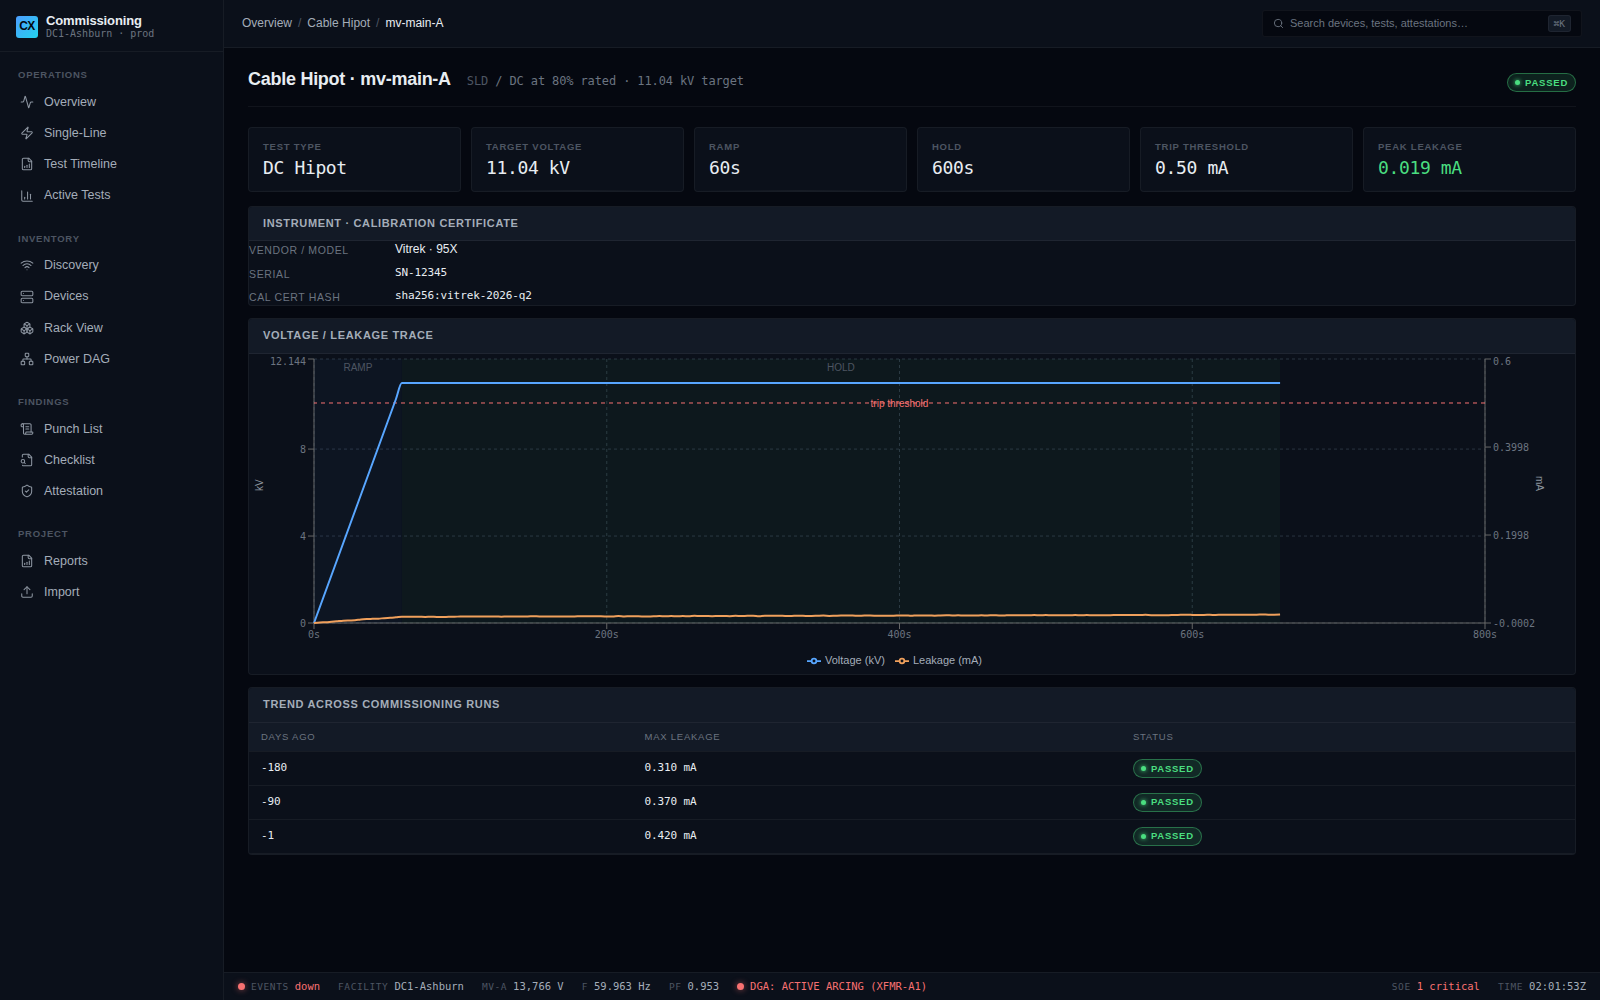
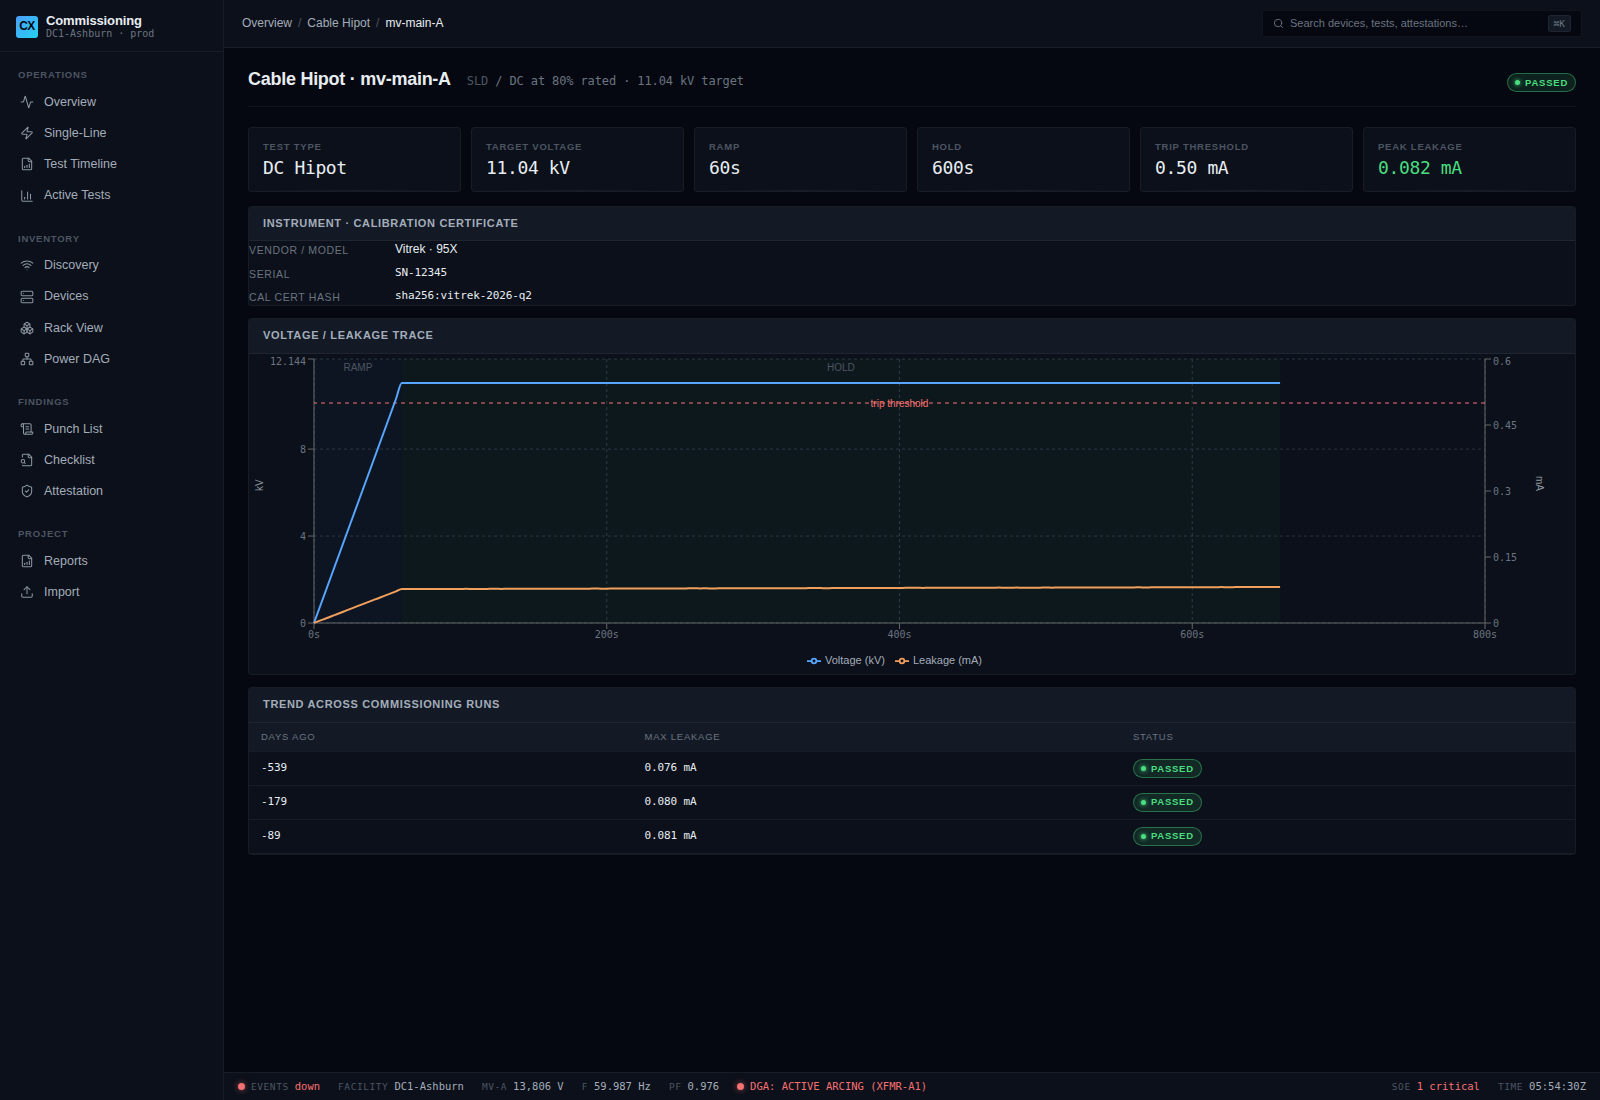
Wire hipot panel through real EvidenceStore + ageing-based cable model
Previously the equipment endpoint returned hand-authored fixtures from
simulator/equipment_records.py whose current-run leakage and historical
trend were independent constants — they did not describe the same cable
(0.019 mA current vs 0.42 mA history implied IR of 580 MΩ vs 26 MΩ for
the same conductor). Fix the structural seam:

- src/evidence_store.py: typed Protocol + InMemoryEvidenceStore; the
  test engine writes panel-shaped records here on completion, the API
  reads from here.
- src/equipment_models/cable.py: CableSpec + insulation_megohm_at() +
  hipot_run_record(spec, run_date). One ageing model produces every
  run a cable has ever had — current peak and historical peaks are on
  the same degradation curve by construction.
- src/equipment_views.py: build_panel(kind, device_id, store) returns
  the latest run with history derived from prior runs in the store, or
  {"no_prior_run": True} when nothing has been recorded.
- dev_server.py: seed historical hipot runs (-540d, -180d, -90d, -1d)
  through the EvidenceStore for every breaker that has an associated
  feeder cable, using a single CableSpec per cable.
- HipotConsole.jsx: render a "no run on file" state when the API
  reports no_prior_run instead of crashing on missing trace data.

Other equipment kinds (xfmr/gen/ups/ats) remain on legacy fixtures and
will be migrated to the same path in subsequent commits.

diff --git a/frontend/src/pages/HipotConsole.jsx b/frontend/src/pages/HipotConsole.jsx
@@ -19,6 +19,26 @@ export default function HipotConsole() {
   }, [id]);
 
   if (!rec) return <p style={{ color: "var(--text-faint)" }}>Loading…</p>;
+  if (rec.no_prior_run) {
+    return (
+      <>
+        <div className="page-header">
+          <h1>Cable Hipot · {id}</h1>
+          <span className="crumb">
+            <Link to="/sld" style={{ color: "var(--text-faint)" }}>SLD</Link>
+            {" / "}no prior run on file
+          </span>
+        </div>
+        <div className="card padded">
+          <p style={{ color: "var(--text-secondary)" }}>
+            No DC hipot test has been recorded for <code>{id}</code>.
+            Schedule a run from the Active Tests page or via the
+            commissioning checklist.
+          </p>
+        </div>
+      </>
+    );
+  }
   const trace = rec.trace.filter((_, i) => i % 4 === 0); // decimate
   const peak = Math.max(...rec.trace.map(p => p.leakage_ma));
 

diff --git a/dev_server.py b/dev_server.py
@@ -11,6 +11,7 @@ import asyncio
 import math
 import random
 import time
+from datetime import datetime, timedelta
 from pathlib import Path
 
 import uvicorn
@@ -18,6 +19,9 @@ from fastapi.staticfiles import StaticFiles
 
 from src.api.server import Deps, create_app, fanout_loop
 from src.attestation import AttestationEngine
+from src.equipment_models.cable import CableSpec, hipot_run_record
+from src.equipment_views import build_panel as build_equipment_panel
+from src.evidence_store import InMemoryEvidenceStore
 from src.orchestrator import Orchestrator, build_power_graph_from_connections
 from src.test_engine import TestEngine
 from src.types import AttestationRecord, DeviceInfo, Event, PollResult, PunchListItem, TestRequest
@@ -33,7 +37,6 @@ from simulator.sim import (
 from simulator.telemetry import live_telemetry, push_soe, telemetry_to_dict
 from simulator.equipment_records import (
     ats_record,
-    cable_hipot_record,
     generator_record,
     transformer_record,
     ups_record,
@@ -428,13 +431,63 @@ def _build_bridge(simulator):
 # ---------------------------------------------------------------------------
 
 
-def _equipment_provider():
+def _seed_hipot_runs(store, devices):
+    """Generate a chronological series of hipot runs for every breaker
+    that has an associated MV/LV cable, all derived from a single
+    CableSpec per cable + a deterministic ageing model. Both current
+    peak and historical peaks therefore lie on one degradation curve.
+
+    In production these records arrive via test_engine.execute() writing
+    its TestResult evidence to the store. The shape and the API path are
+    identical."""
+    breaker_slugs = {
+        "schneider-gma-1200a",   # MV 1200A
+        "schneider-mtz-1200a",   # LV incomer 1200A (some sites)
+        "schneider-mtz-4000a",   # LV incomer 4000A
+    }
+    # Per-cable spec. In production these values come from the cable
+    # schedule (length, jacket, install date). The (initial_megohm,
+    # aging_per_year) pair is sized so leakage at rated test voltage
+    # lands in the 0.05–0.15 mA band — visible on the chart, well below
+    # the IEEE 400.2 0.5 mA trip threshold.
+    cables_by_install_year = {
+        "mv-main-A":  (13.8, 2017, 220.0, 0.045),
+        "mv-main-B":  (13.8, 2017, 220.0, 0.045),
+        "mv-tie":     (13.8, 2017, 220.0, 0.045),
+        "mtz-inc-A1": (0.48, 2021, 380.0, 0.030),
+        "mtz-inc-A2": (0.48, 2021, 380.0, 0.030),
+        "mtz-inc-B1": (0.48, 2021, 380.0, 0.030),
+        "mtz-inc-B2": (0.48, 2021, 380.0, 0.030),
+    }
+    today = datetime(2026, 5, 1)
+    for d in devices:
+        if d.device_type_slug not in breaker_slugs:
+            continue
+        cable_id = d.device_id
+        if cable_id not in cables_by_install_year:
+            continue
+        rated_kv, install_year, initial_megohm, age = cables_by_install_year[cable_id]
+        spec = CableSpec(
+            cable_id=cable_id,
+            rated_kv=rated_kv,
+            install_year=install_year,
+            initial_megohm=initial_megohm,
+            aging_per_year=age,
+        )
+        # Three historical runs (acceptance, 6-month, 3-month) plus today.
+        for days_ago in (540, 180, 90, 1):
+            run_date = today - timedelta(days=days_ago)
+            record = hipot_run_record(spec, run_date)
+            store.put(cable_id, "cable_hipot", record)
+
+
+def _equipment_provider(evidence_store):
     """Returns a function (kind, device_id) -> dict.
 
-    `kind` is one of: xfmr, gen, ups, cable, ats. The function dispatches to
-    the right equipment_records helper. The XFMR-A1 record always reflects
-    the current C2H2 = 3.4 ppm so the Duval triangle/dashboard renders
-    the active-arcing fault zone."""
+    Hipot reads from the EvidenceStore (the platform-correct path: the
+    test engine writes records there, the API reads them back). Other
+    equipment kinds still fall through to legacy demo fixtures and will
+    be migrated to the same path in subsequent commits."""
     def provider(kind: str, device_id: str) -> dict:
         if kind in ("xfmr", "transformer"):
             c2h2_now = 3.4 if device_id == "xfmr-A1" else 0.8
@@ -444,7 +497,7 @@ def _equipment_provider():
         if kind == "ups":
             return ups_record(device_id)
         if kind in ("cable", "hipot"):
-            return cable_hipot_record(device_id)
+            return build_equipment_panel(kind, device_id, evidence_store)
         if kind == "ats":
             return ats_record(device_id)
         raise KeyError(f"unknown equipment kind: {kind}")
@@ -472,6 +525,12 @@ async def main():
     config = DemoConfig()
     devices, runs = build_facility()
     graph = power_graph(devices)
+
+    # Evidence store: every commissioning panel reads from here. The
+    # seed below populates it with deterministic cable-hipot runs the
+    # real platform would have written via test_engine.execute().
+    evidence_store = InMemoryEvidenceStore()
+    _seed_hipot_runs(evidence_store, devices)
 
     attest = AttestationEngine(
         facility_name=config.facility_name,
@@ -567,7 +626,7 @@ async def main():
             }
         },
         telemetry_provider=lambda: telemetry_to_dict(live_telemetry(devices, runs)),
-        equipment_provider=_equipment_provider(),
+        equipment_provider=_equipment_provider(evidence_store),
     )
     app = create_app(deps)
 

diff --git a/src/equipment_models/cable.py b/src/equipment_models/cable.py
@@ -1,0 +1,98 @@
+"""DC hipot test record produced from a single cable spec + age.
+
+One cable, one ageing model. Every run a cable produces — current and
+historical — comes from this function. The current peak leakage and the
+historical peaks are then guaranteed to be on the same curve, because
+they're evaluated at different points on it.
+
+References:
+    IEEE 400-2012 — Guide for Field Testing and Evaluation of the
+    Insulation of Shielded Power Cable Systems Rated 5 kV and Above.
+    IEEE 400.2-2013 — DC Withstand testing methodology, trip thresholds.
+"""
+
+from __future__ import annotations
+
+import random
+from dataclasses import dataclass
+from datetime import datetime
+
+
+@dataclass
+class CableSpec:
+    """Per-cable configuration. In production this comes from the cable
+    schedule (BIM/IFC import or NetBox cable model). In demo it is
+    constructed in dev_server.py per cable_id."""
+    cable_id: str
+    rated_kv: float                  # nameplate phase-to-phase voltage
+    test_factor: float = 0.8         # IEEE 400.2 — DC at 80% of rated AC
+    initial_megohm: float = 35_000.0 # healthy IR for a new MV XLPE cable
+    aging_per_year: float = 0.045    # fractional IR loss per year
+    install_year: int = 2020
+    instrument_vendor: str = "Vitrek"
+    instrument_model: str = "95X"
+    instrument_serial: str = "SN-12345"
+    instrument_cal_cert: str = "sha256:vitrek-2026-q2"
+    leakage_trip_ma: float = 0.5     # IEEE 400.2 trip — instrument-set
+
+
+def insulation_megohm_at(spec: CableSpec, run_date: datetime) -> float:
+    """Deterministic IR estimate at `run_date`. Single source of truth."""
+    years = (run_date - datetime(spec.install_year, 1, 1)).days / 365.25
+    years = max(0.0, years)
+    return spec.initial_megohm * (1.0 - spec.aging_per_year) ** years
+
+
+def hipot_run_record(spec: CableSpec, run_date: datetime) -> dict:
+    """Build a hipot test record for `spec` evaluated at `run_date`.
+
+    Same-cable runs at different dates evaluate the same model at
+    different ages; their leakage values therefore lie on a continuous
+    degradation curve by construction."""
+    target_kv = spec.rated_kv * spec.test_factor
+    R_megohm = insulation_megohm_at(spec, run_date)
+    rng = random.Random(int(run_date.timestamp()) ^ hash(spec.cable_id))
+
+    ramp_s, hold_s = 60, 600
+    trace = []
+    for t in range(ramp_s + hold_s + 1):
+        v = target_kv * (t / ramp_s) if t < ramp_s else target_kv
+        # Ohm's-law leakage with µA-scale instrument noise.
+        leak = (v / R_megohm) + rng.uniform(-0.0002, 0.0002)
+        # Small thermal-creep increase during the hold (real cables show
+        # this as the dielectric warms up under sustained DC stress).
+        if t > ramp_s:
+            base_at_v = target_kv / R_megohm
+            leak += (t - ramp_s) / hold_s * base_at_v * 0.06
+        trace.append({
+            "t_seconds": t,
+            "voltage_kv": round(v, 3),
+            "leakage_ma": round(leak, 5),
+            "phase": "DC+",
+        })
+
+    peak_leak = max(p["leakage_ma"] for p in trace)
+    passed = peak_leak < spec.leakage_trip_ma
+
+    return {
+        "device_id": spec.cable_id,
+        "test_type": "DC Hipot",
+        "rated_kv": spec.rated_kv,
+        "target_kv": round(target_kv, 3),
+        "test_factor": spec.test_factor,
+        "ramp_seconds": ramp_s,
+        "hold_seconds": hold_s,
+        "leakage_trip_threshold_ma": spec.leakage_trip_ma,
+        "instrument": {
+            "vendor": spec.instrument_vendor,
+            "model": spec.instrument_model,
+            "serial": spec.instrument_serial,
+            "cal_cert": spec.instrument_cal_cert,
+        },
+        "trace": trace,
+        "peak_leakage_ma": round(peak_leak, 5),
+        "insulation_megohm": round(R_megohm, 1),
+        "passed": passed,
+        "fail_reason": None if passed else "leakage_exceeds_trip",
+        "completed_at": run_date.isoformat(),
+    }

diff --git a/src/evidence_store.py b/src/evidence_store.py
@@ -1,0 +1,53 @@
+"""Evidence store: per-test panel records produced by the test engine.
+
+The platform's flow is:
+    test_engine.execute(...)
+        -> emits poll stream (Influx) + attestation records (MinIO chain)
+        -> on completion, writes one panel-shaped EvidenceRecord here
+    api/equipment/{kind}/{device_id}
+        -> evidence_store.get_latest(device_id, test_name)
+        -> returns the panel dict the engine wrote, or {"no_prior_run": True}
+
+This module deliberately does NOT generate any commissioning data — it
+only stores and retrieves what the engine produced. Demo data ships as
+historical runs seeded via .put() so the API path is identical between
+demo and production.
+"""
+
+from __future__ import annotations
+
+from typing import Optional, Protocol
+
+
+class EvidenceStore(Protocol):
+    def put(self, device_id: str, test_name: str, record: dict) -> None: ...
+    def get_latest(self, device_id: str, test_name: str) -> Optional[dict]: ...
+    def list_for_device(self, device_id: str) -> list[dict]: ...
+    def list_runs(self, device_id: str, test_name: str) -> list[dict]: ...
+
+
+class InMemoryEvidenceStore:
+    """Dev/test implementation. Production swaps in a MinIO-backed store
+    that puts each record at evidence/<device_id>/<test_name>/<run_id>.json."""
+
+    def __init__(self):
+        self._records: dict[tuple[str, str], list[dict]] = {}
+
+    def put(self, device_id: str, test_name: str, record: dict) -> None:
+        key = (device_id, test_name)
+        # Records are kept in chronological order (oldest first).
+        self._records.setdefault(key, []).append(dict(record))
+
+    def get_latest(self, device_id: str, test_name: str) -> Optional[dict]:
+        runs = self._records.get((device_id, test_name), [])
+        return runs[-1] if runs else None
+
+    def list_runs(self, device_id: str, test_name: str) -> list[dict]:
+        return list(self._records.get((device_id, test_name), []))
+
+    def list_for_device(self, device_id: str) -> list[dict]:
+        out: list[dict] = []
+        for (did, _), runs in self._records.items():
+            if did == device_id:
+                out.extend(runs)
+        return sorted(out, key=lambda r: r.get("completed_at", ""))

diff --git a/src/equipment_views.py b/src/equipment_views.py
@@ -1,0 +1,65 @@
+"""Equipment-panel views.
+
+The API endpoint /api/v1/equipment/{kind}/{device_id} delegates here.
+Each view function reads the latest run plus historical runs from the
+EvidenceStore (which the test engine writes to) and assembles the
+panel-shaped record the React HMI expects.
+
+Returns {"no_prior_run": True, ...} when nothing has been recorded for
+that device + test. The panel renders a "no run on file" state instead
+of inventing data.
+"""
+
+from __future__ import annotations
+
+from datetime import datetime
+from typing import Any
+
+from .evidence_store import EvidenceStore
+
+
+KIND_TO_TEST_NAME = {
+    "hipot": "cable_hipot",
+    "cable": "cable_hipot",
+}
+
+
+def _parse_iso(s: str) -> datetime:
+    # Accept both "...Z" and offset-naive ISO strings.
+    if s.endswith("Z"):
+        s = s[:-1]
+    return datetime.fromisoformat(s)
+
+
+def hipot_panel(device_id: str, store: EvidenceStore) -> dict[str, Any]:
+    runs = store.list_runs(device_id, "cable_hipot")
+    if not runs:
+        return {
+            "device_id": device_id,
+            "kind": "hipot",
+            "no_prior_run": True,
+            "test_name": "cable_hipot",
+        }
+
+    latest = runs[-1]
+    latest_at = _parse_iso(latest["completed_at"])
+    history = []
+    for r in runs[:-1]:
+        run_at = _parse_iso(r["completed_at"])
+        delta_days = (run_at - latest_at).days  # negative for older runs
+        history.append({
+            "date_offset_days": delta_days,
+            "max_leakage_ma": r["peak_leakage_ma"],
+            "passed": r["passed"],
+        })
+    history.sort(key=lambda h: h["date_offset_days"])
+
+    panel = dict(latest)
+    panel["history"] = history
+    return panel
+
+
+def build_panel(kind: str, device_id: str, store: EvidenceStore) -> dict[str, Any]:
+    if kind in ("hipot", "cable"):
+        return hipot_panel(device_id, store)
+    raise KeyError(f"no view registered for kind: {kind}")

diff --git a/scripts/screenshot_hipot.py b/scripts/screenshot_hipot.py
@@ -1,0 +1,21 @@
+"""Capture the rewired hipot panel."""
+import asyncio, os
+from pathlib import Path
+from playwright.async_api import async_playwright
+
+OUT = Path(__file__).resolve().parent.parent / "screenshots"
+
+async def main():
+    os.environ.setdefault("PLAYWRIGHT_BROWSERS_PATH", "/opt/pw-browsers")
+    async with async_playwright() as p:
+        browser = await p.chromium.launch(headless=True, args=["--no-sandbox"])
+        ctx = await browser.new_context(viewport={"width": 1600, "height": 1100})
+        await ctx.add_init_script("try{localStorage.setItem('api_key','demo')}catch(e){}")
+        page = await ctx.new_page()
+        await page.goto("http://localhost:8080/hipot/mv-main-A",
+                        wait_until="networkidle", timeout=20000)
+        await page.wait_for_timeout(1500)
+        await page.screenshot(path=str(OUT / "07-hipot.png"), full_page=True)
+        print("done")
+
+asyncio.run(main())
